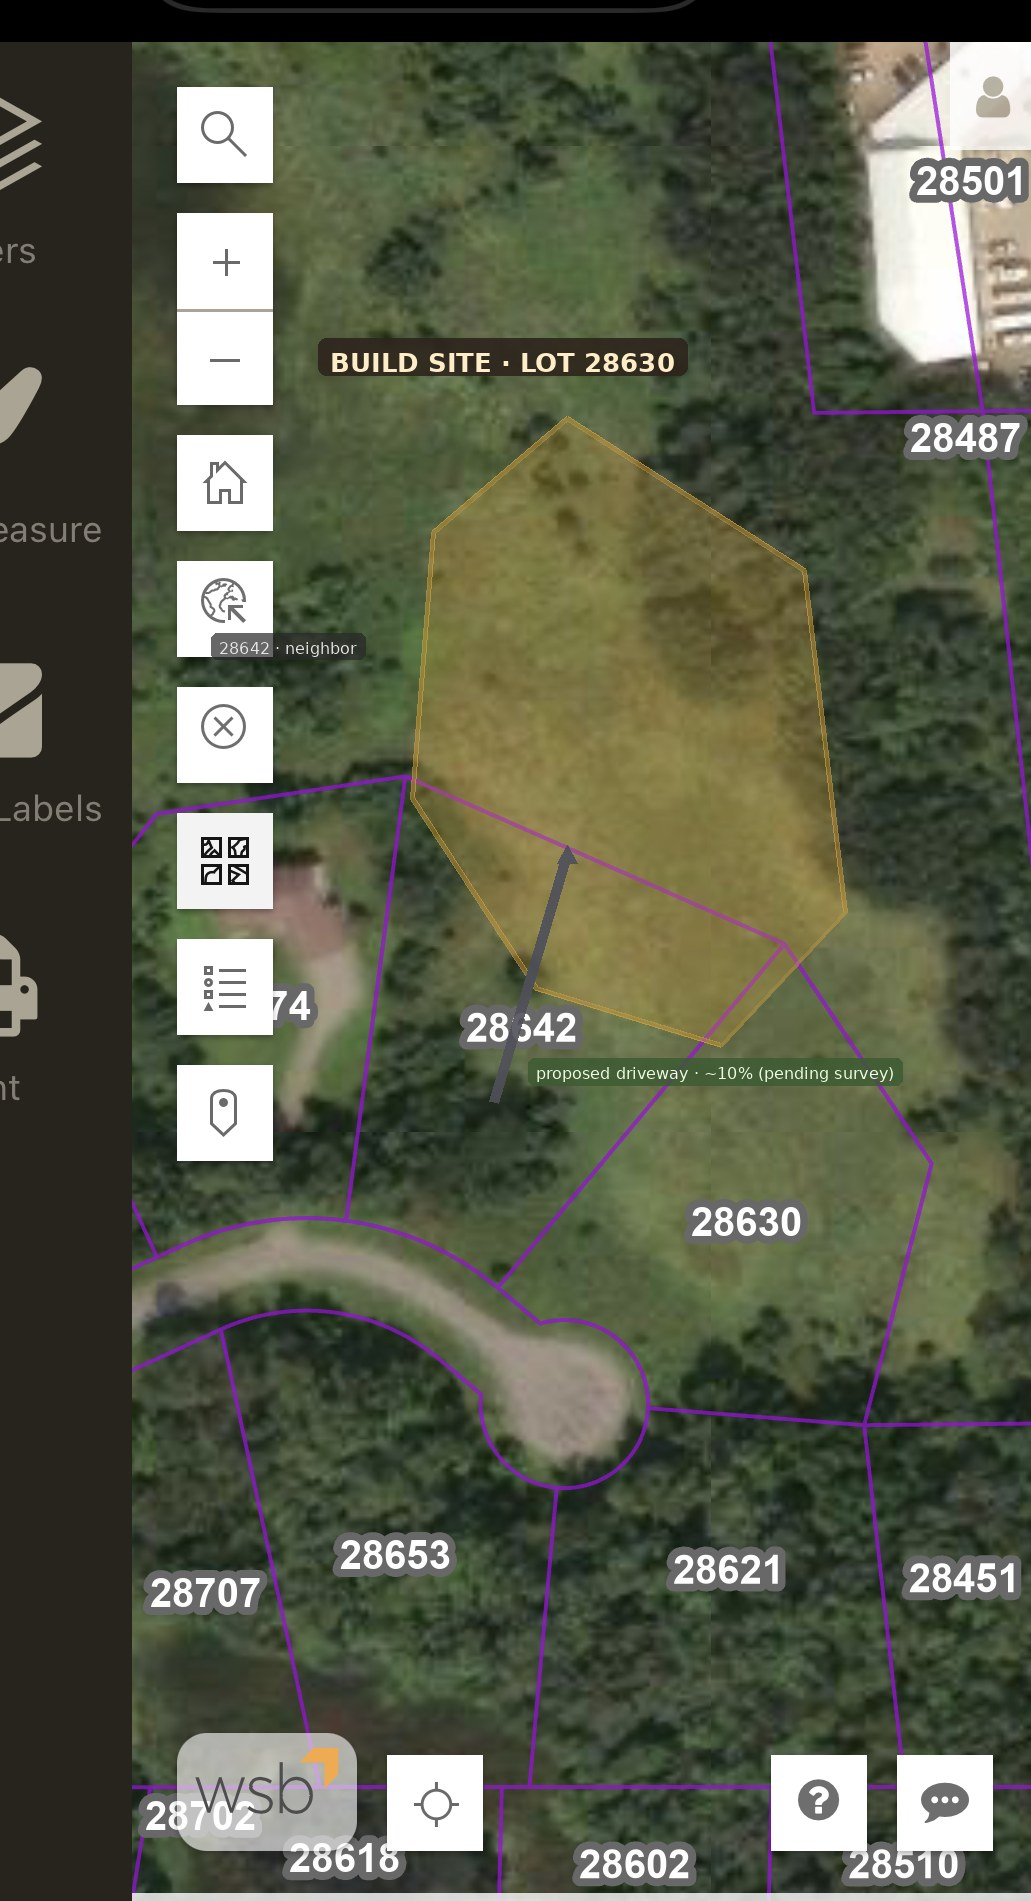
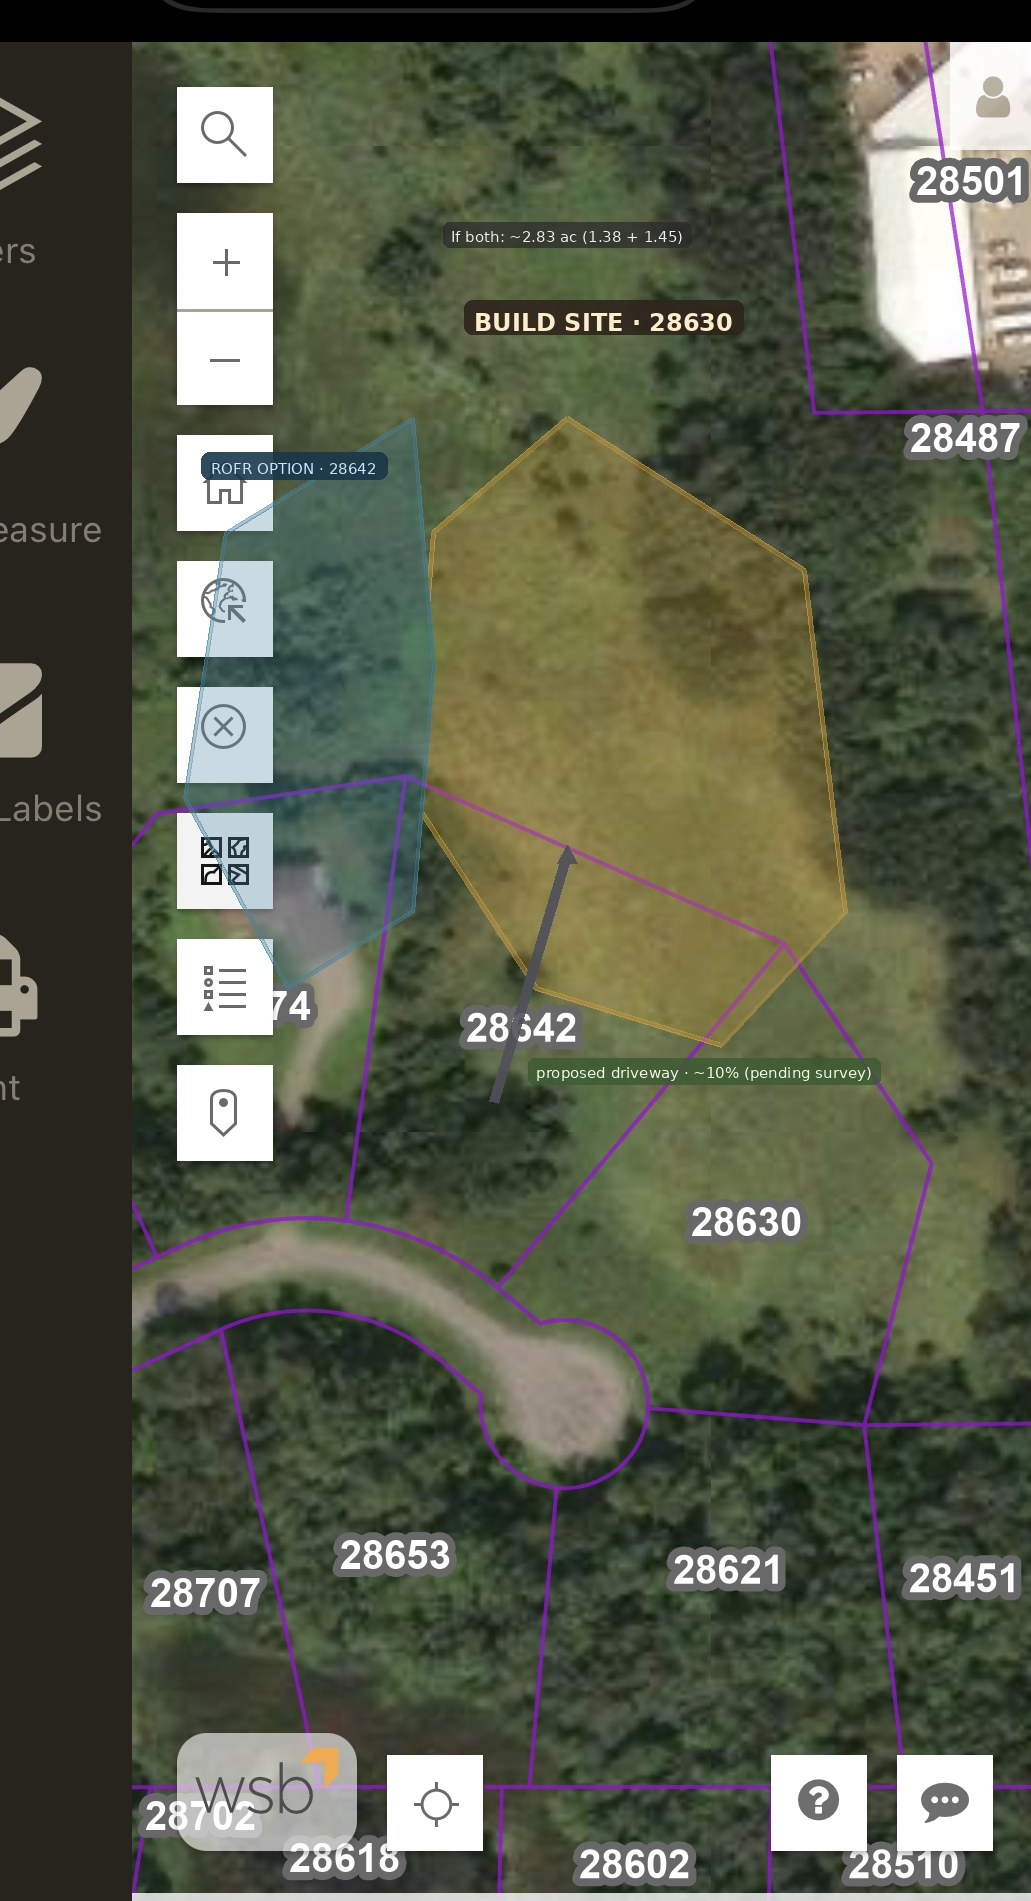
Add 28642 ROFR option lot card, map highlight, schedule + ideas (v4)

diff --git a/index.html b/index.html
@@ -147,7 +147,7 @@
 <body>
 <header class="app">
   <h1>Clarence Ct Build</h1>
-  <p class="sub">Lot 28630 · Spring 2027 start · Back Forty plan (~80%)</p>
+  <p class="sub">Build on 28630 · ROFR on 28642 · Spring 2027 · Back Forty (~80%)</p>
 </header>
 
 <div class="wrap">
@@ -180,8 +180,9 @@
     <div class="card">
       <h2>Quick facts</h2>
       <div class="row">
-        <span class="pill">Build site: <strong style="margin-left:4px">Lot 28630</strong></span>
-        <span class="pill">Neighbor: 28642</span>
+        <span class="pill">Build site: <strong style="margin-left:4px">28630</strong></span>
+        <span class="pill">ROFR option: 28642</span>
+        <span class="pill">Combined if acquired: ~2.83 ac</span>
         <span class="pill">Plan: 103′ × 68′ BF1</span>
         <span class="pill">Target start: Apr 2027</span>
       </div>
@@ -218,14 +219,16 @@
   <!-- LOT -->
   <section id="panel-lot" class="panel">
     <div class="card">
-      <h2>Lot 28630 — build site</h2>
-      <p class="muted">Stearns County Datafi (wsbeng) parcel map. Build site: <strong>28630 Clarence Ct</strong>, Paynesville (Koronis Ridge). Neighbor only: <strong>28642 Clarence Ct</strong>.</p>
-      <img class="lot-img" src="assets/lot-map.jpg" alt="Lot 28630 build site map with proposed driveway" data-full="assets/lot-map.jpg" />
+      <h2>Lots — Clarence Ct (Koronis Ridge)</h2>
+      <p class="muted">House build is <strong>solely on 28630</strong>. Lot <strong>28642</strong> is under a <strong>right of first refusal</strong> (future option) — include it in planning, but not as the house site. Combined if acquired: <strong>~2.83 ac</strong> (1.38 + 1.45).</p>
+      <img class="lot-img" src="assets/lot-map.jpg" alt="28630 build site and 28642 ROFR option map" data-full="assets/lot-map.jpg" />
+      <p class="muted" style="margin-top:8px">Map: amber = build site 28630 · teal = ROFR option 28642</p>
     </div>
     <div class="card">
-      <h2>Parcel details</h2>
-      <p class="muted">Pre-filled from public Stearns County GIS where found. Blank fields were not in the layers we queried — fill those in from survey / builder. All fields stay editable.</p>
+      <h2>28630 — Build site</h2>
+      <p class="muted">Pre-filled from Stearns County GIS. House / driveway go here only. Fields stay editable.</p>
       <div class="grid2" id="lotFields"></div>
+      <p class="muted" id="combinedAcres" style="margin-top:10px"></p>
       <p class="muted" style="margin-top:12px;line-height:1.45" id="lotSource">
         <strong>Sources:</strong>
         Stearns County GIS hub
@@ -239,6 +242,11 @@
         Property Viewer / Datafi:
         <a href="https://datafi.wsbeng.com/#!prod/county!mn!stearns!public" target="_blank" rel="noopener">datafi.wsbeng.com</a>.
       </p>
+    </div>
+    <div class="card">
+      <h2>28642 — Right of first refusal (future option)</h2>
+      <p class="muted">Not the house build site. Track ROFR terms and possible future uses. GIS fields pre-filled; ROFR fields are yours to fill.</p>
+      <div class="grid2" id="rofrFields"></div>
     </div>
     <div class="card">
       <h2>Driveway</h2>
@@ -315,7 +323,7 @@
 
 <script>
 (function () {
-  const STORE_KEY = 'clarence-ct-build-v3';
+  const STORE_KEY = 'clarence-ct-build-v4';
   const CIRC = 2 * Math.PI * 40;
 
   const LOT_FIELD_DEFS = [
@@ -330,15 +338,28 @@
     { key: 'plat', label: 'Plat / lot / block', placeholder: '' },
     { key: 'sectwprange', label: 'Section–Township–Range', placeholder: '' },
     { key: 'owner', label: 'Owner (public tax record)', placeholder: '' },
-    { key: 'neighborParcel', label: 'Neighbor address #', placeholder: '28642' },
-    { key: 'neighborPin', label: 'Neighbor tax parcel / PIN', placeholder: '' },
-    { key: 'neighborNote', label: 'Neighbor context', placeholder: '' },
     { key: 'setbacks', label: 'Setbacks (F/S/R)', placeholder: 'not in GIS — confirm with county/builder' },
     { key: 'well', label: 'Well', placeholder: 'existing / new / TBD' },
     { key: 'septic', label: 'Septic / sewer', placeholder: '' },
     { key: 'utilities', label: 'Utilities (power, gas, internet)', placeholder: '' },
     { key: 'survey', label: 'Survey status', placeholder: '' },
     { key: 'topoNote', label: 'Topo / driveway grade note (USGS estimate)', placeholder: '' },
+  ];
+
+  const ROFR_FIELD_DEFS = [
+    { key: 'address', label: 'Address', placeholder: '' },
+    { key: 'parcelId', label: 'Address # (map label)', placeholder: '28642' },
+    { key: 'pin', label: 'Tax parcel / PIN', placeholder: '' },
+    { key: 'parcelNum', label: 'Parcel number', placeholder: '' },
+    { key: 'acreage', label: 'Deed acreage', placeholder: '' },
+    { key: 'zoning', label: 'Zoning', placeholder: '' },
+    { key: 'propClass', label: 'Property class', placeholder: '' },
+    { key: 'plat', label: 'Plat / lot / block', placeholder: '' },
+    { key: 'owner', label: 'Owner (public tax record)', placeholder: '' },
+    { key: 'status', label: 'ROFR status', placeholder: 'active / watching / exercised / expired' },
+    { key: 'terms', label: 'Terms / expiration date', placeholder: '' },
+    { key: 'price', label: 'Price / offer notes', placeholder: '' },
+    { key: 'notes', label: 'ROFR notes', placeholder: 'Uses if acquired: privacy buffer, shop, garden…' },
   ];
 
   const GRADE_PRESETS = [
@@ -354,6 +375,7 @@
   function defaultSchedule() {
     // Typical MN custom-home cadence; spring 2027 start
     const steps = [
+      { title: 'ROFR decision / review (28642)', month: '', status: 'todo', budget: 0, actual: 0, notes: 'Right of first refusal on 28642 — optional; house build stays on 28630 only' },
       { title: 'Finalize plan & selections', month: '2027-04', status: 'todo', budget: 5000, actual: 0, notes: 'BF1 is ~80% — lock changes with designer/builder' },
       { title: 'Site survey & soil / perc', month: '2027-04', status: 'todo', budget: 3500, actual: 0, notes: 'Confirm topography for driveway grade on 28630 (working estimate 10%)' },
       { title: 'Permits & county approvals', month: '2027-05', status: 'todo', budget: 4000, actual: 0, notes: 'Stearns County building, driveway/access, septic if needed' },
@@ -397,15 +419,27 @@
         plat: 'Koronis Ridge — Lot 003, Block 003',
         sectwprange: '21-122-32',
         owner: 'KOCKA LP',
-        neighborParcel: '28642',
-        neighborPin: '26163000004',
-        neighborNote: '28642 Clarence Ct — Koronis Ridge Lot 002 Blk 003; 1.45 ac; same public owner; neighboring lot only (not the build site)',
         setbacks: '',
         well: '',
         septic: '',
         utilities: '',
         survey: '',
         topoNote: 'USGS 3DEP (~1 m): cul-de-sac ~1176 ft; interior garage area ~1161 ft — rough sample path ~147 ft run / ~15 ft drop ≈ 10% downhill into the lot. Working driveway grade default ~10% (estimate pending survey). Will update after survey.',
+      },
+      lotRofr: {
+        address: '28642 Clarence Ct, Paynesville, MN 56362',
+        parcelId: '28642',
+        pin: '26163000004',
+        parcelNum: '26.16300.0004',
+        acreage: '1.45',
+        zoning: 'Residential District R-5',
+        propClass: '4B4 Unimproved residential land',
+        plat: 'Koronis Ridge — Lot 002, Block 003',
+        owner: 'KOCKA LP',
+        status: 'active ROFR',
+        terms: '',
+        price: '',
+        notes: 'Right of first refusal — future option. House build stays on 28630 only.',
       },
       driveway: {
         surface: 'paved',
@@ -421,6 +455,7 @@
         { id: uid(), text: 'Garage gym layout (racks, rubber floor, HVAC).', created: Date.now() },
         { id: uid(), text: 'Office/library built-ins and natural light.', created: Date.now() },
         { id: uid(), text: 'Snow storage and plow turnaround at driveway top.', created: Date.now() },
+        { id: uid(), text: '28642 ROFR — possible uses if acquired: privacy buffer, detached shop, garden / orchard (house stays on 28630).', created: Date.now() },
       ],
     };
   }
@@ -436,6 +471,7 @@
         ...d,
         ...data,
         lot: { ...d.lot, ...(data.lot || {}) },
+        lotRofr: { ...d.lotRofr, ...(data.lotRofr || {}) },
         driveway: { ...d.driveway, ...(data.driveway || {}) },
         planNotes: data.planNotes || d.planNotes,
         schedule: data.schedule || d.schedule,
@@ -556,18 +592,46 @@
   });
 
   // —— LOT ——
+  function combinedAcreageText() {
+    const a = parseFloat(state.lot.acreage) || 0;
+    const b = parseFloat(state.lotRofr && state.lotRofr.acreage) || 0;
+    const sum = a + b;
+    return 'Combined if 28642 acquired: ~' + sum.toFixed(2) + ' ac (28630 ' + (state.lot.acreage || '—') + ' + 28642 ' + ((state.lotRofr && state.lotRofr.acreage) || '—') + '). House build stays on 28630 only.';
+  }
+
   function renderLotFields() {
     const box = document.getElementById('lotFields');
     box.innerHTML = LOT_FIELD_DEFS.map(f => `
       <label class="field">${esc(f.label)}
         <input data-lot="${f.key}" value="${escAttr(state.lot[f.key] || '')}" placeholder="${escAttr(f.placeholder || '')}" />
       </label>`).join('');
+    const rofr = document.getElementById('rofrFields');
+    if (rofr) {
+      if (!state.lotRofr) state.lotRofr = defaults().lotRofr;
+      rofr.innerHTML = ROFR_FIELD_DEFS.map(f => `
+        <label class="field">${esc(f.label)}
+          <input data-rofr="${f.key}" value="${escAttr(state.lotRofr[f.key] || '')}" placeholder="${escAttr(f.placeholder || '')}" />
+        </label>`).join('');
+    }
+    const ca = document.getElementById('combinedAcres');
+    if (ca) ca.textContent = combinedAcreageText();
   }
   document.getElementById('lotFields').addEventListener('input', e => {
     const k = e.target.dataset.lot;
     if (!k) return;
     state.lot[k] = e.target.value;
     save();
+    const ca = document.getElementById('combinedAcres');
+    if (ca) ca.textContent = combinedAcreageText();
+  });
+  document.getElementById('rofrFields').addEventListener('input', e => {
+    const k = e.target.dataset.rofr;
+    if (!k) return;
+    if (!state.lotRofr) state.lotRofr = defaults().lotRofr;
+    state.lotRofr[k] = e.target.value;
+    save();
+    const ca = document.getElementById('combinedAcres');
+    if (ca) ca.textContent = combinedAcreageText();
   });
 
   function syncDrivewayInputs() {
@@ -663,7 +727,7 @@
     return `<span class="pill ${cls}">${esc(st)}</span>`;
   }
   function fmtMonth(ym) {
-    if (!ym) return '—';
+    if (!ym) return 'date TBD';
     const [y, m] = ym.split('-').map(Number);
     const names = ['Jan','Feb','Mar','Apr','May','Jun','Jul','Aug','Sep','Oct','Nov','Dec'];
     return (names[m-1] || m) + ' ' + y;
@@ -848,7 +912,7 @@
     reader.onload = () => {
       try {
         const data = JSON.parse(reader.result);
-        state = { ...defaults(), ...data, lot: { ...defaults().lot, ...(data.lot||{}) }, driveway: { ...defaults().driveway, ...(data.driveway||{}) } };
+        state = { ...defaults(), ...data, lot: { ...defaults().lot, ...(data.lot||{}) }, lotRofr: { ...defaults().lotRofr, ...(data.lotRofr||{}) }, driveway: { ...defaults().driveway, ...(data.driveway||{}) } };
         save(); renderAll();
         alert('Imported.');
       } catch (err) {
